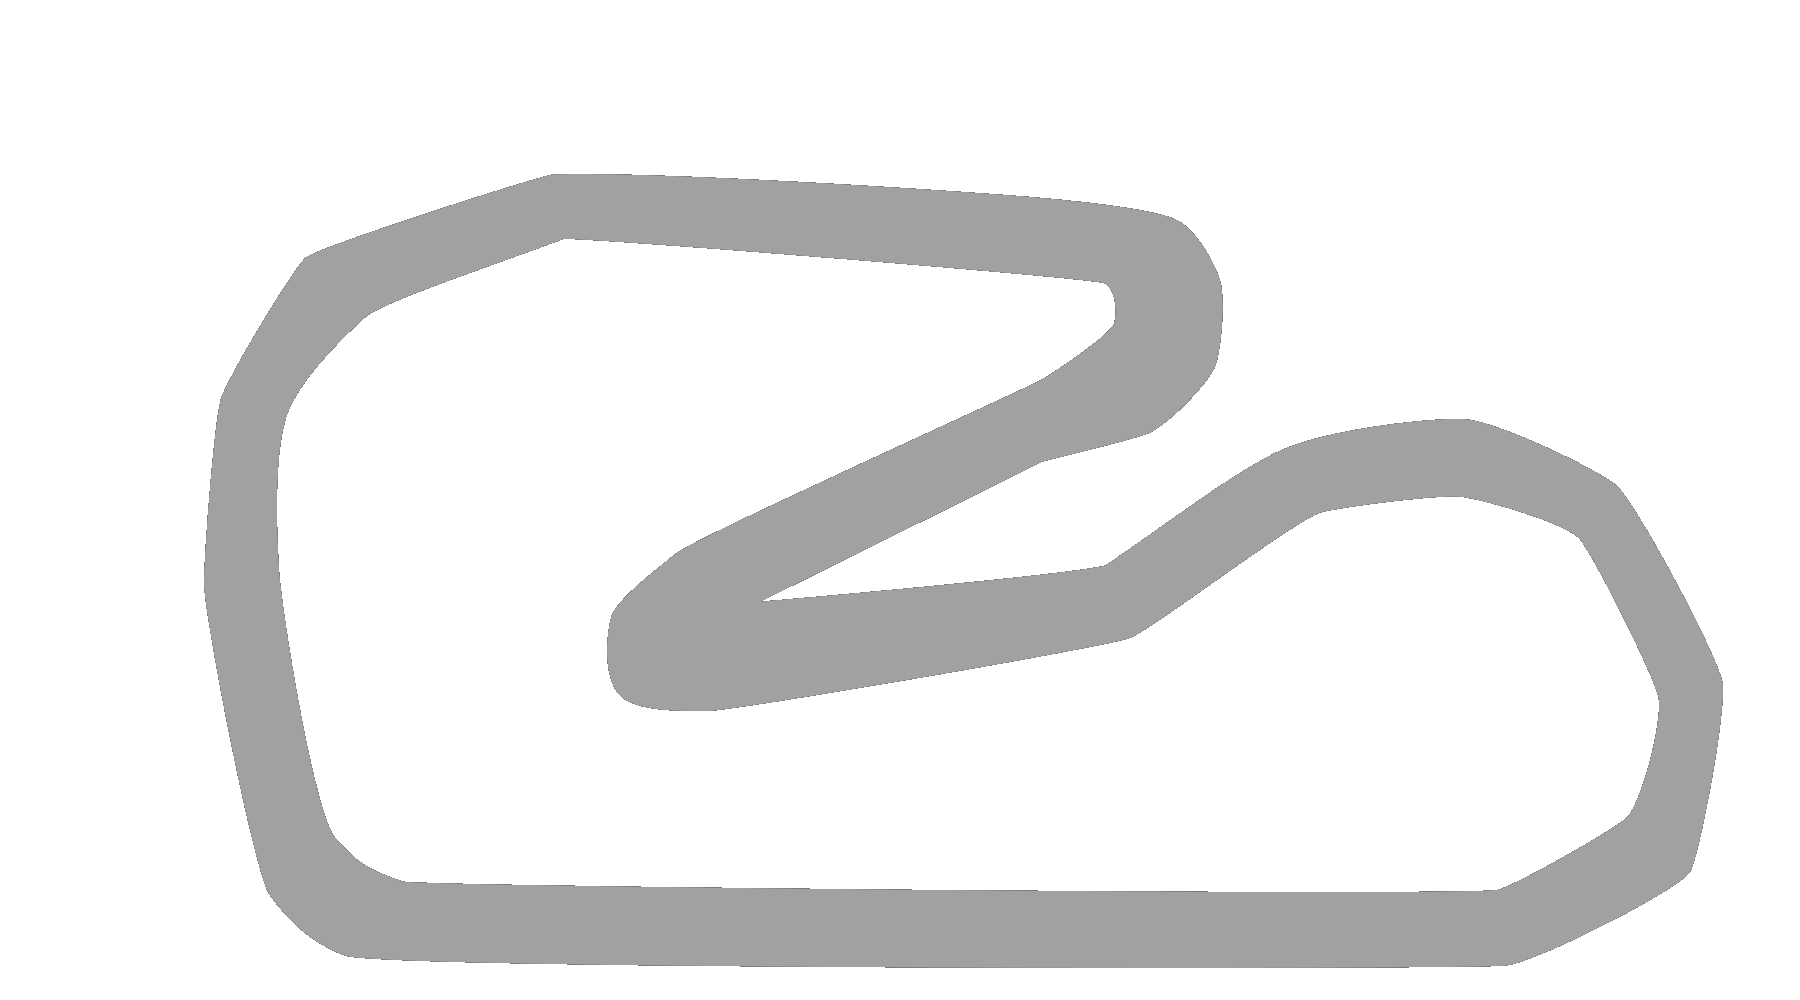
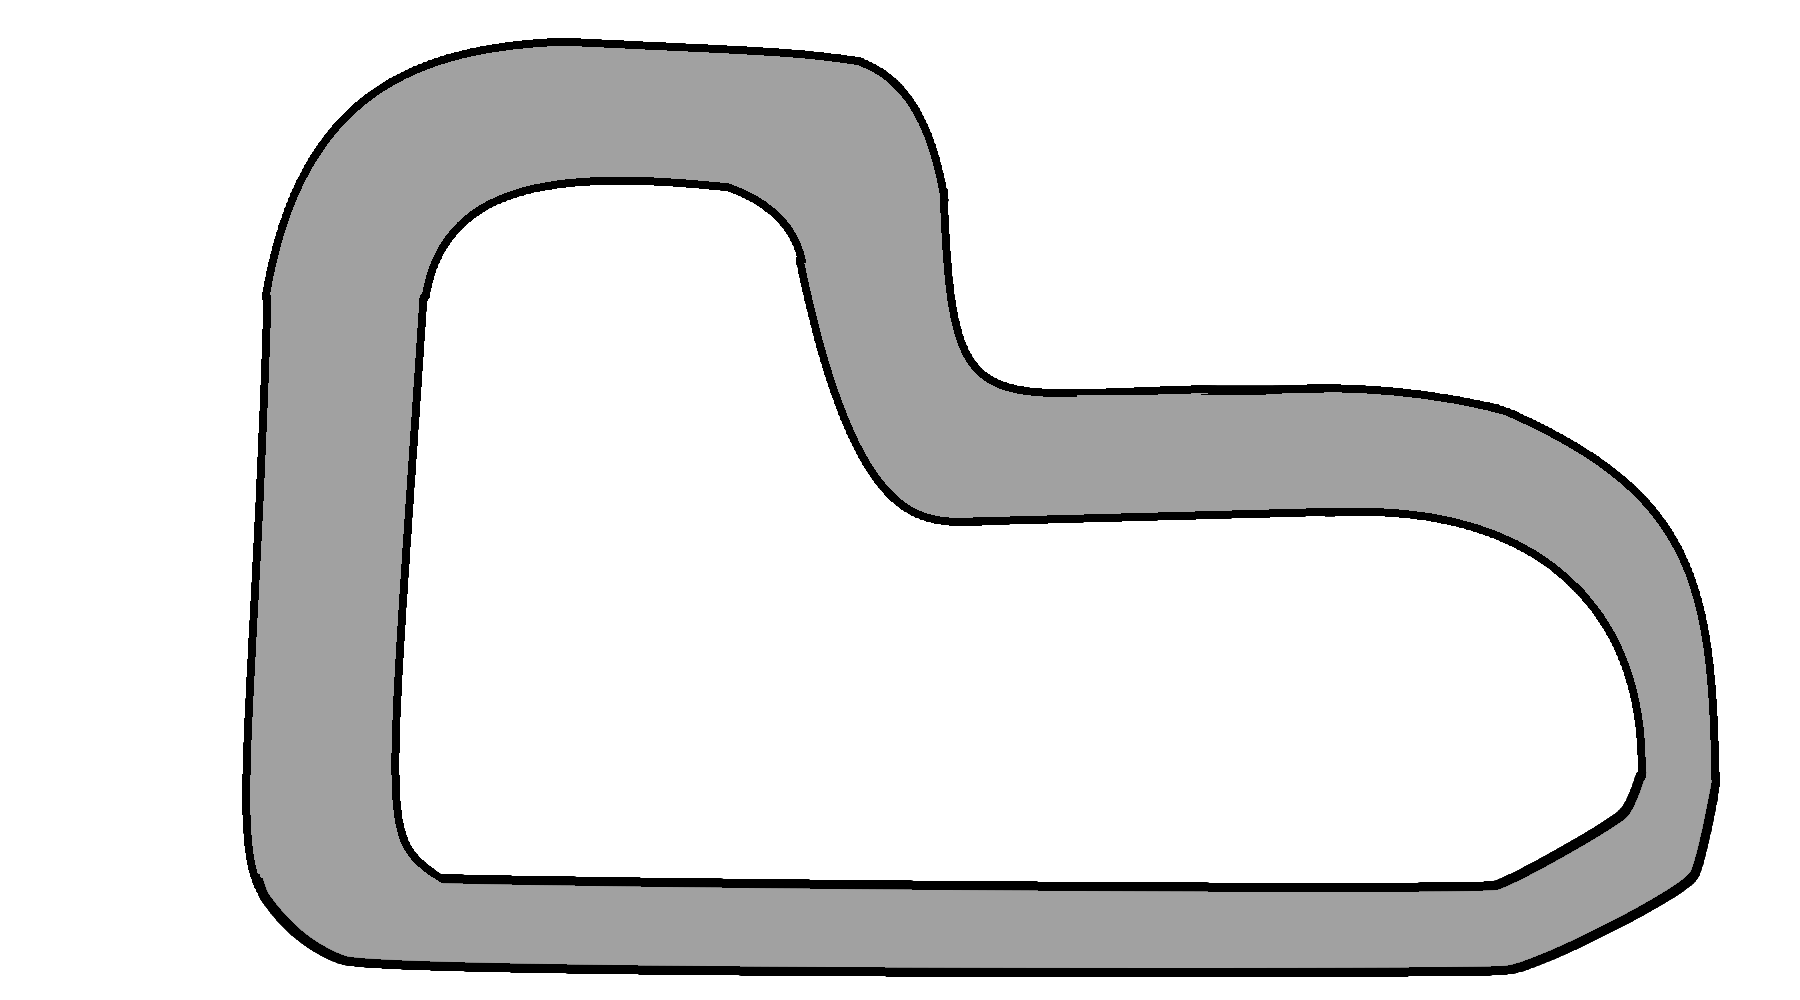
Changed track and car sprites

Changed region(s): [[0.0933, 0.031, 0.9644, 0.992]]

diff --git a/rl_car/game.py b/rl_car/game.py
@@ -28,7 +28,7 @@ from config_file import (  # type: ignore
 
 ROOT_DIR = Path(__file__).parent
 IMAGE_DIR = ROOT_DIR / 'images'
-CAR_SPRITE = IMAGE_DIR / 'car.png'
+CAR_SPRITE = IMAGE_DIR / 'car1.png'
 TRACK_BARE_SPRITE = IMAGE_DIR / 'track_bare.png'
 TRACK_BORDER_INNER_SPRITE = IMAGE_DIR / 'track_border_inner.png'
 TRACK_BORDER_OUTER_SPRITE = IMAGE_DIR / 'track_border_outer.png'
@@ -79,7 +79,7 @@ class MyGame(arcade.Window):
 
         # Set up the player
         self.player_sprite = Player(CAR_SPRITE, SPRITE_SCALING)
-        self.player_sprite.center_x = WINDOW_WIDTH // 7  # 50
+        self.player_sprite.center_x = WINDOW_WIDTH // 5  # 50
         self.player_sprite.center_y = WINDOW_HEIGHT // 2  # 50
         self.player_list.append(self.player_sprite)
 
